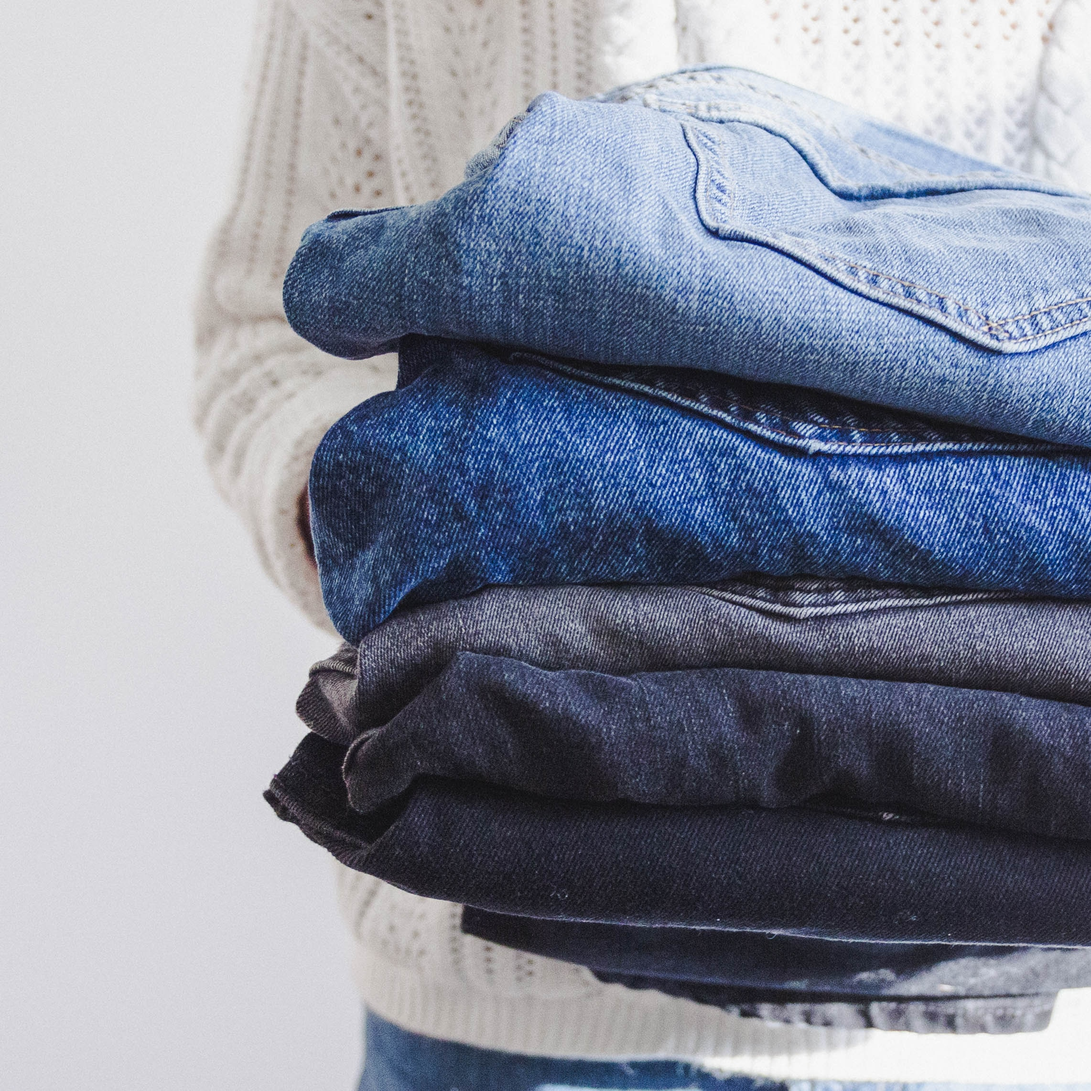
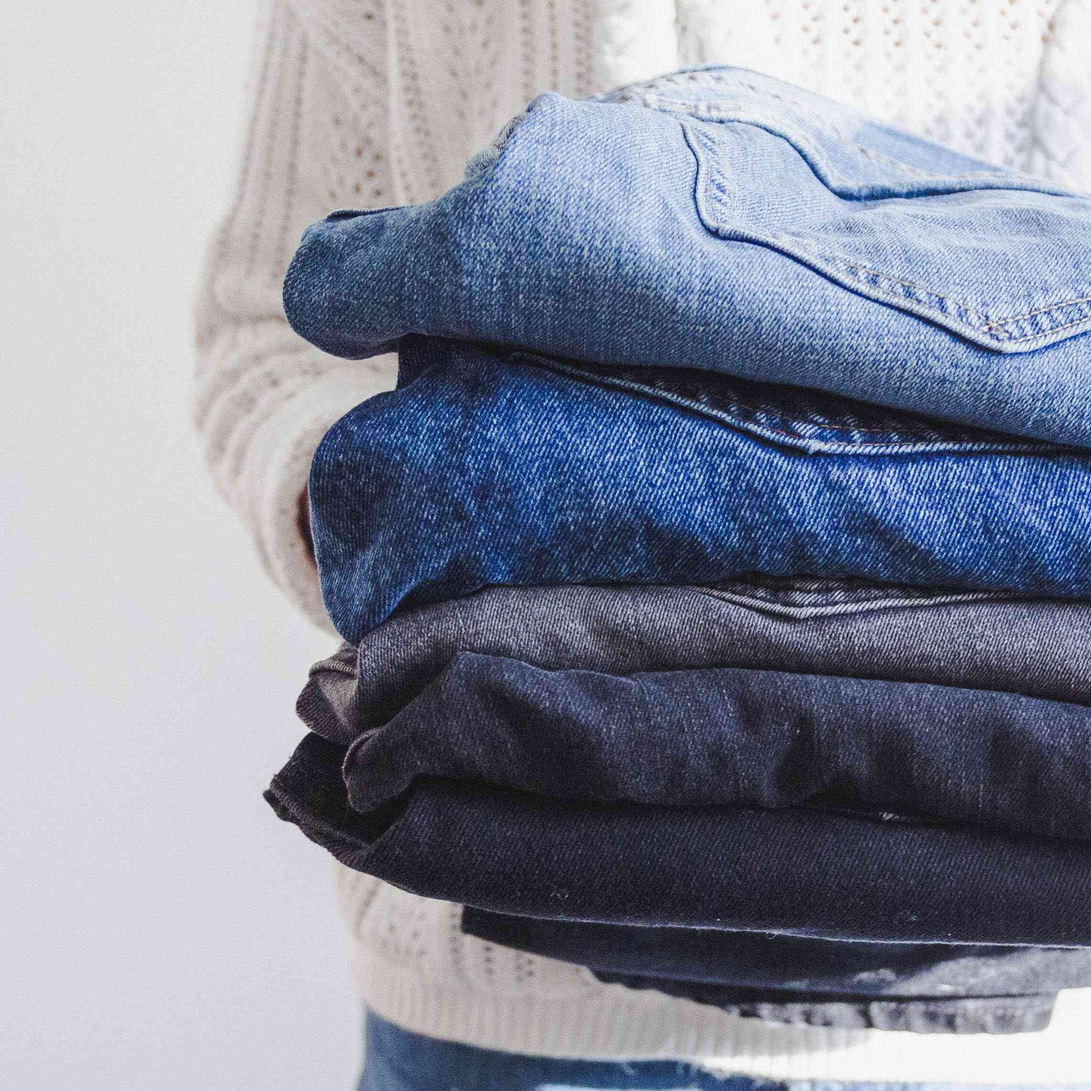
reduce images quality

diff --git a/lib/features/data/datasource/need/medicine/medicine_need_datasource.dart b/lib/features/data/datasource/need/medicine/medicine_need_datasource.dart
@@ -1,14 +1,17 @@
 import 'dart:convert';
+import 'dart:typed_data';
 
-import 'package:hayat_eg/core/error/api_error.dart';
-import 'package:hayat_eg/core/error/exceptions.dart';
+import 'package:get/get.dart';
 import 'package:hayat_eg/core/json/json_encoder.dart';
-import 'package:hayat_eg/features/data/model/need/book/book_need_response.dart';
 import 'package:hayat_eg/features/data/model/need/medicine/medicine_need_request.dart';
 import 'package:hayat_eg/features/data/model/need/medicine/medicine_need_response.dart';
 import 'package:hayat_eg/shared/network/endPoints/endPint.dart';
 import 'package:hayat_eg/shared/network/local/Cash_helper/cash_helper.dart';
 import 'package:http/http.dart' as http;
+import 'package:http_parser/http_parser.dart';
+
+import '../../../../../../core/error/exceptions.dart';
+import '../../../../../core/error/api_error.dart';
 
 class MedicineNeedDataSource {
   final http.Client client;
@@ -18,18 +21,18 @@ class MedicineNeedDataSource {
   Future<MedicineNeedResponse?> create(MedicineNeedRequest request) async {
     String token = Cash_helper.getData(key: 'token');
     final response = await client.post(
-        Uri.parse("$baseUrl/api/v1/needs/medicine"),
-        body: request.toJson(),
+        Uri.parse('$baseUrl/api/v1/needs/medicine'),
+        body: jsonEncode(request.toJson()),
         headers: {
           'Content-Type': 'application/json',
           'Authorization': 'Bearer $token'
         });
 
     if (response.statusCode == 200 || response.statusCode == 201) {
-      return MedicineNeedResponse.fromJson(jsonDecode(response.body));
+      return MedicineNeedResponse.fromJson(decodeJson(response.body));
     } else if (response.statusCode == 400) {
       throw BadRequestException(
-          apiError: ApiError.fromJson(jsonDecode(response.body)));
+          apiError: ApiError.fromJson(decodeJson(response.body)));
     }
   }
 
@@ -43,6 +46,64 @@ class MedicineNeedDataSource {
     } else if (response.statusCode == 400) {
       throw BadRequestException(
           apiError: ApiError.fromJson(jsonDecode(response.body)));
+    }
+  }
+
+  Future<MedicineNeedResponse?> get(int id) async {
+    final response =
+        await client.get(Uri.parse('$baseUrl/api/v1/needs/medicine/$id'));
+
+    if (response.statusCode == 200 || response.statusCode == 201) {
+      return MedicineNeedResponse.fromJson(decodeJson(response.body));
+    } else if (response.statusCode == 400) {
+      throw BadRequestException(
+          apiError: ApiError.fromJson(decodeJson(response.body)));
+    }
+  }
+
+  Future<MedicineNeedResponse?> upvote(int id) async {
+    final response = await client
+        .put(Uri.parse('$baseUrl/api/v1/needs/medicine/$id/upvote'), headers: {
+      'Content-Type': 'application/json',
+      'Authorization': 'Bearer ${Cash_helper.getData(key: 'token')}'
+    });
+
+    if (response.statusCode == 400) {
+      throw BadRequestException(
+          apiError: ApiError.fromJson(decodeJson(response.body)));
+    }
+  }
+
+  Future<MedicineNeedResponse?> downvote(int id) async {
+    final response = await client.put(
+        Uri.parse('$baseUrl/api/v1/needs/medicine/$id/down-vote'),
+        headers: {
+          'Content-Type': 'application/json',
+          'Authorization': 'Bearer ${Cash_helper.getData(key: 'token')}'
+        });
+
+    if (response.statusCode == 400) {
+      throw BadRequestException(
+          apiError: ApiError.fromJson(decodeJson(response.body)));
+    }
+  }
+
+  Future<MedicineNeedResponse?> updateImage(int id, Uint8List file) async {
+    var request = http.MultipartRequest(
+        'POST', Uri.parse('$baseUrl/api/v1/needs/book/$id/images'));
+
+    request.files.add(http.MultipartFile.fromBytes('file', file,
+        filename: 'image.jpg', contentType: MediaType('image', 'jpg')));
+    request.headers
+        .assign('Authorization', 'Bearer ${Cash_helper.getData(key: 'token')}');
+
+    var response = await request.send();
+    final body = decodeJson(await response.stream.bytesToString());
+
+    if (response.statusCode == 200 || response.statusCode == 201) {
+      return MedicineNeedResponse.fromJson(jsonDecode(body));
+    } else if (response.statusCode == 400) {
+      throw BadRequestException(apiError: ApiError.fromJson(jsonDecode(body)));
     }
   }
 }

diff --git a/lib/features/presentation/page/need/medicine/create_medicine_donation_screen.dart b/lib/features/presentation/page/need/medicine/create_medicine_donation_screen.dart
@@ -11,6 +11,7 @@ import 'package:hayat_eg/features/data/model/donation/medicine/medicine_donation
 import 'package:hayat_eg/features/data/model/donation/medicine/medicine_donation_response.dart';
 import 'package:hayat_eg/features/data/model/medicine/medicine.dart';
 import 'package:hayat_eg/features/data/model/medicine/medicine_unit.dart';
+import 'package:hayat_eg/features/data/model/need/medicine/medicine_need_request.dart';
 import 'package:hayat_eg/features/data/repository/CityRepository.dart';
 import 'package:hayat_eg/features/data/repository/donation/medicine/medicine_donation_repository.dart';
 import 'package:hayat_eg/features/data/repository/medicine/medicine_repository.dart';
@@ -664,20 +665,19 @@ class _MedicineCategoryScreenState extends State<MedicineCategoryScreen> {
   }
 
   void onSubmit() async {
-    final request = MedicineDonationRequest(
+    final request = MedicineNeedRequest(
       title: titleController.text,
       description: descriptionController.text,
       cityId: _cities?[0].id,
       communicationMethod: 'CHAT',
-      quantity: double.parse(quantityController.text),
       telegramLink: "https://t.me/${telegramController.text}",
-      whatsappLink: "https://wa.me/${watsAppController.text}",
+      // whatsappLink: "https://wa.me/${watsAppController.text}",
       medicineId: _medicines?[0].id,
       medicineUnitId: _medicineUnits?[0].id,
-      medicineExpirationDate: _medicineExpirationDateController.text,
+      // medicineExpirationDate: _medicineExpirationDateController.text,
     );
 
-    final response = _medicineDonationRepository.create(request);
+    final response = _medicineNeed.create(request);
     response.then((value) {
       showDialog(
           context: context,

diff --git a/lib/features/data/repository/need/medicine/medicine_need_repository.dart b/lib/features/data/repository/need/medicine/medicine_need_repository.dart
@@ -1,6 +1,8 @@
-import 'package:hayat_eg/features/data/datasource/need/book/book_need_datasource.dart';
+import 'dart:ffi';
+import 'dart:typed_data';
+
 import 'package:hayat_eg/features/data/datasource/need/medicine/medicine_need_datasource.dart';
-import 'package:hayat_eg/features/data/model/need/book/book_need_response.dart';
+import 'package:hayat_eg/features/data/model/need/medicine/medicine_need_request.dart';
 import 'package:hayat_eg/features/data/model/need/medicine/medicine_need_response.dart';
 
 class MedicineNeedRepository {
@@ -10,7 +12,28 @@ class MedicineNeedRepository {
     required this.medicineNeedDataSource,
   });
 
+  Future<MedicineNeedResponse?> create(
+      MedicineNeedRequest request) async {
+    return await medicineNeedDataSource.create(request);
+  }
+
   Future<List<MedicineNeedResponse>?> search(String query) async {
     return await medicineNeedDataSource.search(query);
+  }
+
+  Future<MedicineNeedResponse?> get(int id) async {
+    return await medicineNeedDataSource.get(id);
+  }
+
+  Future<MedicineNeedResponse?> upvote(int id) async {
+    return await medicineNeedDataSource.upvote(id);
+  }
+
+  Future<MedicineNeedResponse?> downvote(int id) async {
+    return await medicineNeedDataSource.downvote(id);
+  }
+
+  Future<MedicineNeedResponse?> updateImage(int id, Uint8List image) async {
+    return await medicineNeedDataSource.updateImage(id, image);
   }
 }
